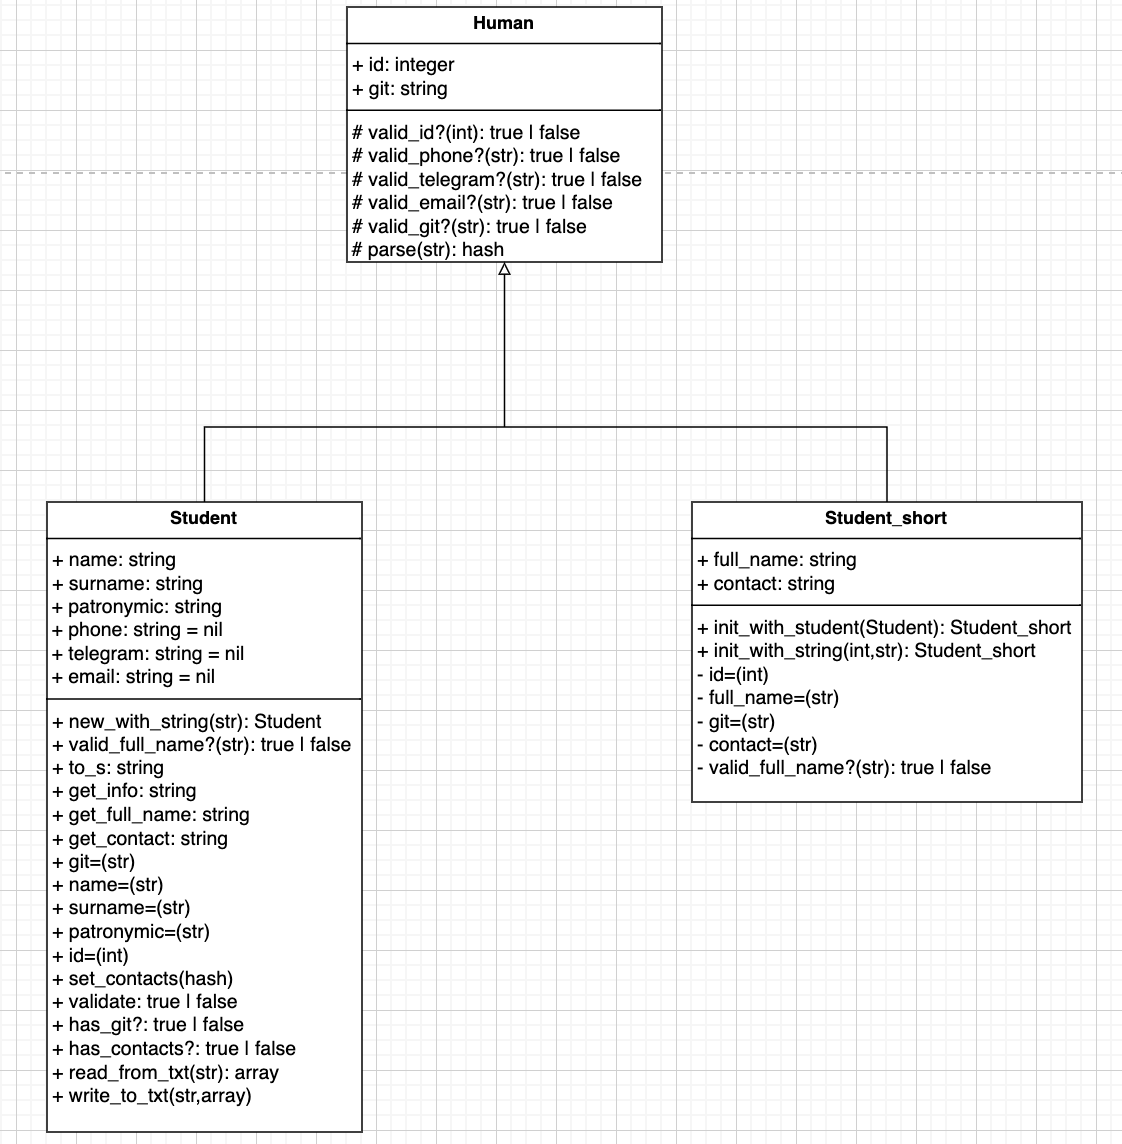
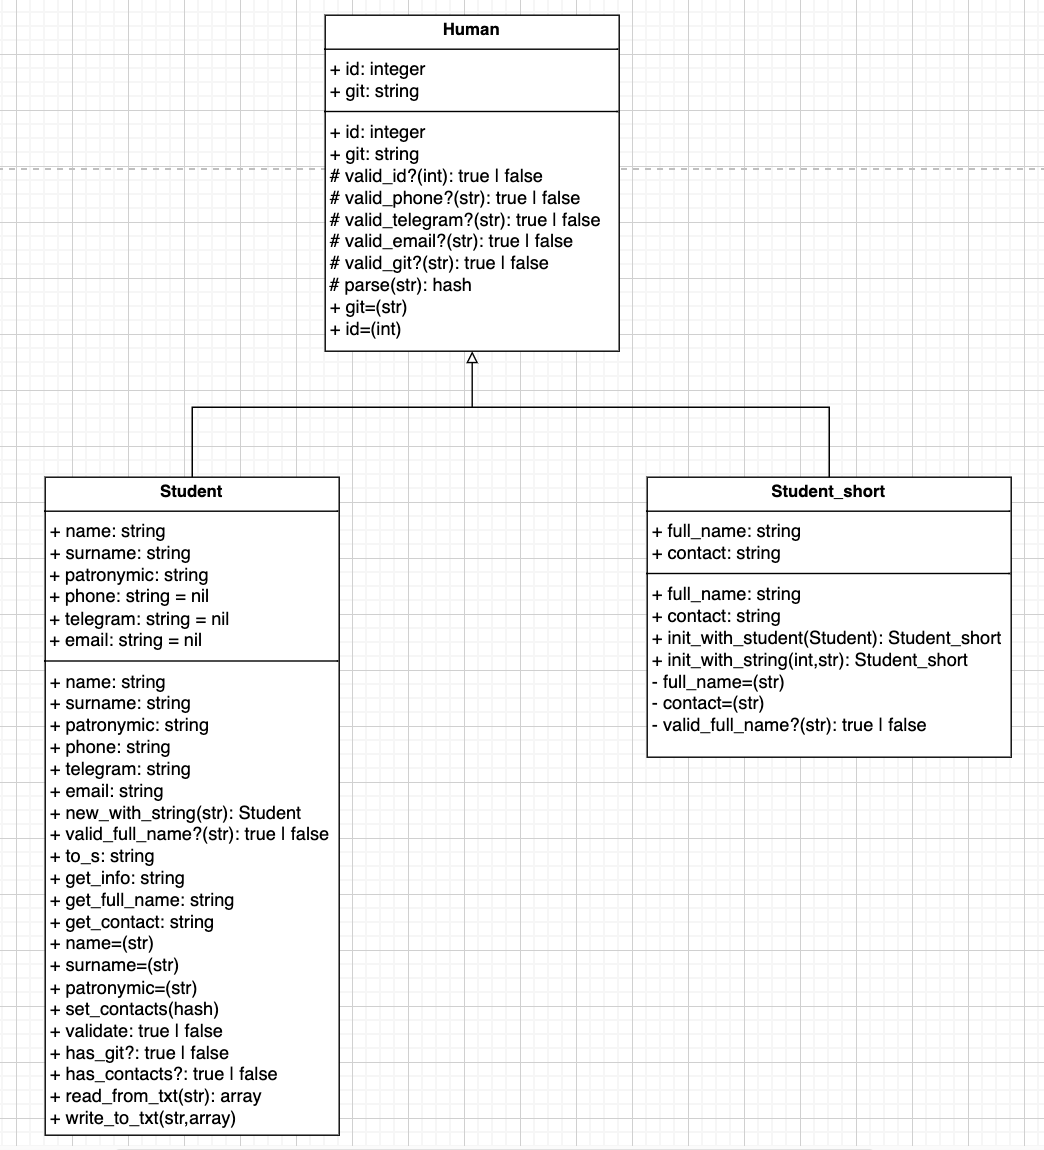
lab2: class diagram fix

diff --git a/lab2_kernel_classes_and_models/human.rb b/lab2_kernel_classes_and_models/human.rb
@@ -1,39 +1,53 @@
 class Human
-  attr_reader :id, :git
+    attr_reader :id, :git
 
-  protected
+    protected
 
-  def self.valid_id?(id)
-      id.nil? || id.is_a?(Integer) || /^\d+$/.match?(id.to_s)
-  end
+    def self.valid_id?(id)
+        id.nil? || id.is_a?(Integer) || /^\d+$/.match?(id.to_s)
+    end
     
-  def self.valid_phone?(phone)
-      phone.nil? || /^\+7|8[\s-]?(?:\(?\d{3}\)?[\s-]?)\d{3}[\s-]?\d{2}[\s-]?\d{2}$/.match?(phone)
-  end
+    def self.valid_phone?(phone)
+        phone.nil? || /^\+7|8[\s-]?(?:\(?\d{3}\)?[\s-]?)\d{3}[\s-]?\d{2}[\s-]?\d{2}$/.match?(phone)
+    end
 
-  def self.valid_telegram?(telegram)
-      telegram.nil? || /^\@[a-zA-Z0-9_]{5,}$/.match?(telegram)
-  end
+    def self.valid_telegram?(telegram)
+        telegram.nil? || /^\@[a-zA-Z0-9_]{5,}$/.match?(telegram)
+    end
 
-  def self.valid_email?(email)
-      email.nil? || /^[a-zA-Z0-9._%+-]+@[a-zA-Z0-9.-]+\.[a-zA-Z]{2,}$/.match?(email)
-  end
+    def self.valid_email?(email)
+        email.nil? || /^[a-zA-Z0-9._%+-]+@[a-zA-Z0-9.-]+\.[a-zA-Z]{2,}$/.match?(email)
+    end
 
-  def self.valid_git?(git)
-      git.nil? || %r{^https?://github\.com/[a-zA-Z0-9_-]+$}.match?(git)
-  end
+    def self.valid_git?(git)
+        git.nil? || %r{^https?://github\.com/[a-zA-Z0-9_-]+$}.match?(git)
+    end
 
-  def self.parse(string)
-      result = {}
-  
-      string.split(', ').each do |part|
-        key_value = part.split(': ')
-        key = key_value[0].strip.to_sym 
-        value = key_value[1].strip if key_value[1] 
-  
-        result[key] = value if key && value
-      end
-  
-      result
-  end
+    def self.parse(string)
+        result = {}
+    
+        string.split(', ').each do |part|
+            key_value = part.split(': ')
+            key = key_value[0].strip.to_sym 
+            value = key_value[1].strip if key_value[1] 
+    
+            result[key] = value if key && value
+        end
+    
+        result
+    end
+
+    def git=(git)
+        if (!self.class.valid_git?(git))
+            raise ArgumentError, "Invalid git format"
+        end
+        @git = git
+    end
+
+    def id=(id)
+        if (!self.class.valid_id?(id))
+            raise ArgumentError, "Invalid id format"
+        end
+        @id = id
+    end
 end

diff --git a/lab2_kernel_classes_and_models/student_short.rb b/lab2_kernel_classes_and_models/student_short.rb
@@ -5,7 +5,7 @@ class Student_short < Human
   attr_reader :full_name, :contact
   private_class_method :new
 
-  def initialize(id, full_name, git, contact)
+  def initialize(full_name: , git: , contact: ,id: nil)
       self.id = id
       self.full_name = full_name
       self.git = git
@@ -13,7 +13,7 @@ class Student_short < Human
   end
 
   def self.init_with_student(student)
-      self.new(student.id,student.get_full_name.slice(11..-1),student.git,student.get_contact)
+      self.new(id: student.id, full_name: student.get_full_name.slice(11..-1), git: student.git, contact: student.get_contact)
   end
 
   def self.init_with_string(id, string)
@@ -27,30 +27,16 @@ class Student_short < Human
           contact = "email: #{hash[:email]}"
       end
 
-      self.new(id,hash[:full_name],hash[:git],contact)
+      self.new(id: id,full_name: hash[:full_name], git: hash[:git], contact: contact)
   end
 
   private
-
-  def id=(id)
-      if (!self.class.valid_id?(id))
-          raise ArgumentError, "Invalid id format"
-      end
-      @id = id
-  end
 
   def full_name=(full_name)
       if (!self.class.valid_full_name?(full_name))
           raise ArgumentError, "Invalid full name format"
       end
       @full_name = full_name
-  end
-
-  def git=(git)
-      if (!self.class.valid_git?(git))
-          raise ArgumentError, "Invalid git format"
-      end
-      @git = git
   end
 
   def contact=(contact)

diff --git a/lab2_kernel_classes_and_models/student.rb b/lab2_kernel_classes_and_models/student.rb
@@ -64,15 +64,8 @@ class Student < Human
         elsif (!self.email.nil?)
             "email: #{self.email}"
         else
-            "contacts not specified"
+            "contacts: not assigned"
         end
-    end
-
-    def git=(git)
-        if (!self.class.valid_git?(git))
-            raise ArgumentError, "Invalid git format"
-        end
-        @git = git
     end
 
     def name=(name)
@@ -94,13 +87,6 @@ class Student < Human
             raise ArgumentError, "Invalid patronymic format"
         end
         @patronymic = patronymic
-    end
-
-    def id=(id)
-        if (!self.class.valid_id?(id))
-            raise ArgumentError, "Invalid id format"
-        end
-        @id = id
     end
 
     def set_contacts(**contacts)
